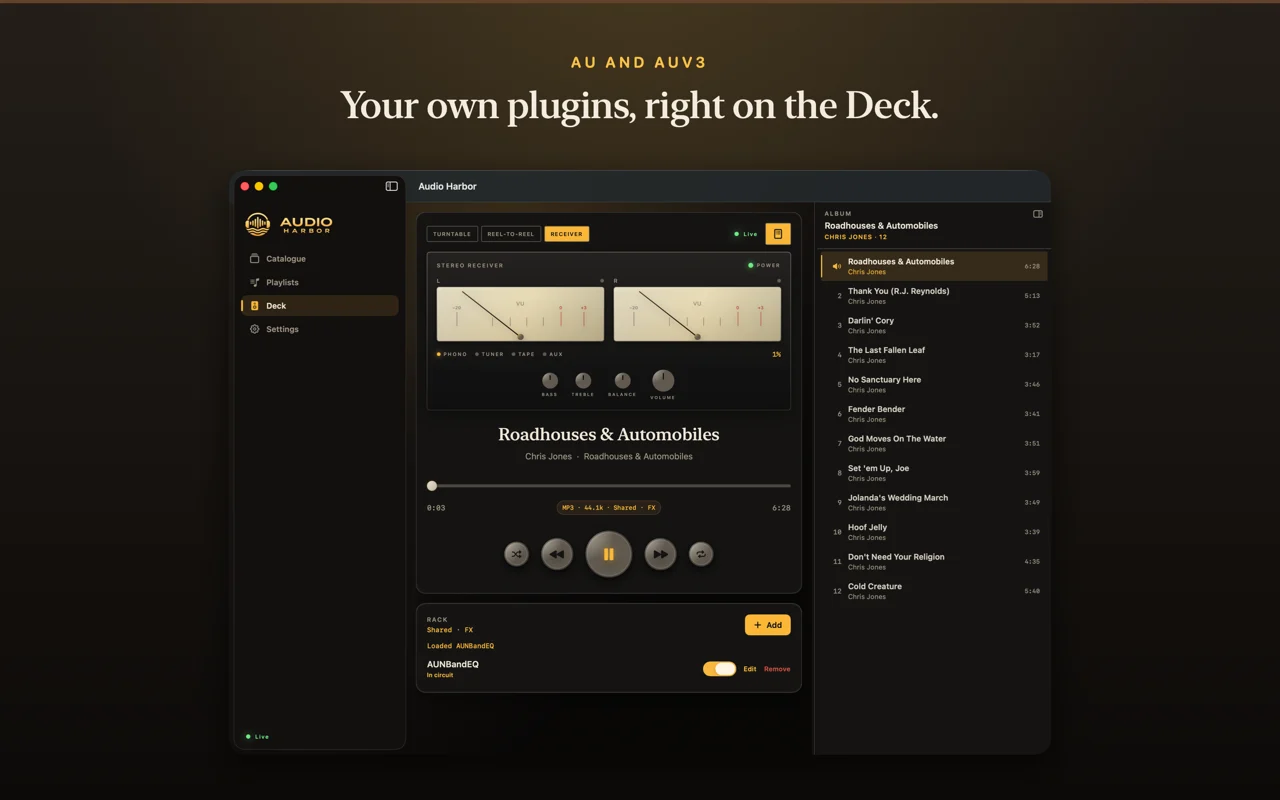
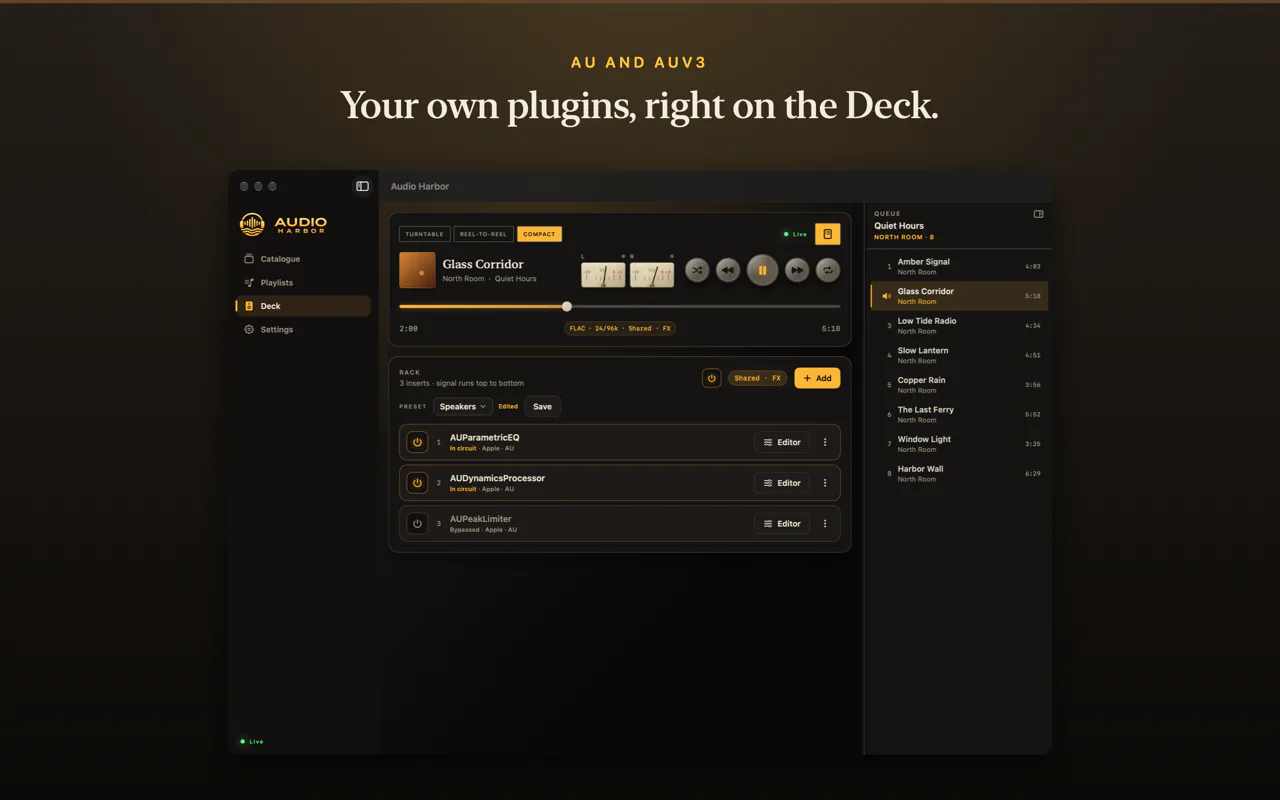
Homepage: new iPhone remote screenshots, Rack added, sized for the screen
Six iPhone shots in App Store order, Rack new, as 240/480 px WebP for 1x
and 2x screens plus 1000 px for the lightbox. The Mac rack shot and its
alt text, and the FAQ line on classic Audio Units, follow the app.

Claude-Session: https://claude.ai/code/session_017wrANJNzgTGxBYrKPM4S8V

diff --git a/docs/index.html b/docs/index.html
@@ -685,7 +685,7 @@
       <button class="shot-open" type="button"
               data-full="images/web/store/lb/mac-04-rack.webp"
               data-caption="AU and AUv3 — your own plugins, right on the Deck">
-        <img src="images/web/store/mac-04-rack.webp" width="840" height="525" alt="The Deck in its receiver face with VU meters and an EQ plugin in the rack" loading="lazy" />
+        <img src="images/web/store/mac-04-rack.webp" width="840" height="525" alt="The Deck in its Compact face with small VU meters, and three Audio Unit inserts in the rack" loading="lazy" />
       </button>
       <div class="shot-label">AU and AUv3</div>
     </div>
@@ -724,7 +724,10 @@
       <button class="shot-open" type="button"
               data-full="images/web/store/lb/iphone-01-now.webp"
               data-caption="Deck — your Mac plays, your iPhone steers, queue and volume on the stage">
-        <img src="images/web/store/iphone-01-now.webp" width="480" height="1043" alt="The Deck on iPhone: listening stage, transport, seek bar, and volume on the Mac" loading="lazy" />
+        <img src="images/web/store/iphone-01-now.webp"
+             srcset="images/web/store/iphone-01-now-240.webp 240w, images/web/store/iphone-01-now.webp 480w"
+             sizes="220px" width="480" height="1043" loading="lazy" decoding="async"
+             alt="The Deck on iPhone: listening stage, transport, seek bar, and volume on the Mac" />
       </button>
       <div class="shot-label">Deck</div>
     </div>
@@ -732,7 +735,10 @@
       <button class="shot-open" type="button"
               data-full="images/web/store/lb/iphone-02-browse.webp"
               data-caption="Catalogue — every album on your Mac, in your hand">
-        <img src="images/web/store/iphone-02-browse.webp" width="480" height="1043" alt="The Catalogue tab browsing the Mac's albums" loading="lazy" />
+        <img src="images/web/store/iphone-02-browse.webp"
+             srcset="images/web/store/iphone-02-browse-240.webp 240w, images/web/store/iphone-02-browse.webp 480w"
+             sizes="220px" width="480" height="1043" loading="lazy" decoding="async"
+             alt="The Catalogue tab browsing the Mac's albums" />
       </button>
       <div class="shot-label">Catalogue</div>
     </div>
@@ -740,23 +746,43 @@
       <button class="shot-open" type="button"
               data-full="images/web/store/lb/iphone-03-queue.webp"
               data-caption="Queue — jump anywhere in what plays next">
-        <img src="images/web/store/iphone-03-queue.webp" width="480" height="1043" alt="The Deck queue sheet with the playing track marked" loading="lazy" />
+        <img src="images/web/store/iphone-03-queue.webp"
+             srcset="images/web/store/iphone-03-queue-240.webp 240w, images/web/store/iphone-03-queue.webp 480w"
+             sizes="220px" width="480" height="1043" loading="lazy" decoding="async"
+             alt="The Deck queue sheet with the playing track marked" />
       </button>
       <div class="shot-label">Queue</div>
     </div>
     <div class="shot tall">
       <button class="shot-open" type="button"
-              data-full="images/web/store/lb/iphone-04-nearby.webp"
+              data-full="images/web/store/lb/iphone-04-rack.webp"
+              data-caption="Rack — your Mac's plugin rack and presets, from the couch">
+        <img src="images/web/store/iphone-04-rack.webp"
+             srcset="images/web/store/iphone-04-rack-240.webp 240w, images/web/store/iphone-04-rack.webp 480w"
+             sizes="220px" width="480" height="1043" loading="lazy" decoding="async"
+             alt="The rack sheet on iPhone: preset chips, the A/B switch and three Audio Unit inserts on the Mac" />
+      </button>
+      <div class="shot-label">Rack</div>
+    </div>
+    <div class="shot tall">
+      <button class="shot-open" type="button"
+              data-full="images/web/store/lb/iphone-05-nearby.webp"
               data-caption="Nearby — finds your Mac on its own, no account">
-        <img src="images/web/store/iphone-04-nearby.webp" width="480" height="1043" alt="The remote listing two Macs found on the local network" loading="lazy" />
+        <img src="images/web/store/iphone-05-nearby.webp"
+             srcset="images/web/store/iphone-05-nearby-240.webp 240w, images/web/store/iphone-05-nearby.webp 480w"
+             sizes="220px" width="480" height="1043" loading="lazy" decoding="async"
+             alt="The remote listing two Macs found on the local network" />
       </button>
       <div class="shot-label">Nearby</div>
     </div>
     <div class="shot tall">
       <button class="shot-open" type="button"
-              data-full="images/web/store/lb/iphone-05-pairing.webp"
+              data-full="images/web/store/lb/iphone-06-pairing.webp"
               data-caption="Pairing — once, with a code from the Mac">
-        <img src="images/web/store/iphone-05-pairing.webp" width="480" height="1043" alt="The remote asking for the six-digit pairing code" loading="lazy" />
+        <img src="images/web/store/iphone-06-pairing.webp"
+             srcset="images/web/store/iphone-06-pairing-240.webp 240w, images/web/store/iphone-06-pairing.webp 480w"
+             sizes="220px" width="480" height="1043" loading="lazy" decoding="async"
+             alt="The remote asking for the six-digit pairing code" />
       </button>
       <div class="shot-label">Pairing</div>
     </div>
@@ -841,7 +867,7 @@
       <div class="host-card">
         <div class="lead">Out of process</div>
         <h3>Crash-safe</h3>
-        <p>AUv3 effects run outside the player. Classic AUs that are not sandbox-safe — most commercial ones — run in macOS’s own Audio Unit host, not inside Audio Harbor. A plugin that misbehaves takes itself down, not your listening.</p>
+        <p>AUv3 effects run outside the player. Classic AUs run in macOS’s own Audio Unit host, not inside Audio Harbor. A plugin that misbehaves takes itself down, not your listening.</p>
       </div>
       <div class="host-card">
         <div class="lead">Honest path</div>

diff --git a/docs/faq.html b/docs/faq.html
@@ -241,7 +241,7 @@
     <details>
       <summary>Which plugins can I use?</summary>
       <div class="answer">
-        <p>Stereo Audio Unit effects: AUv3 extensions and classic AU components. Plugins that are not marked sandbox-safe — most commercial ones — run in macOS’s own Audio Unit host rather than inside Audio Harbor, so a plugin that crashes does not take your music with it.</p>
+        <p>Stereo Audio Unit effects: AUv3 extensions and classic AU components. Classic AUs run in macOS’s own Audio Unit host rather than inside Audio Harbor, so a plugin that crashes does not take your music with it.</p>
       </div>
     </details>
 
